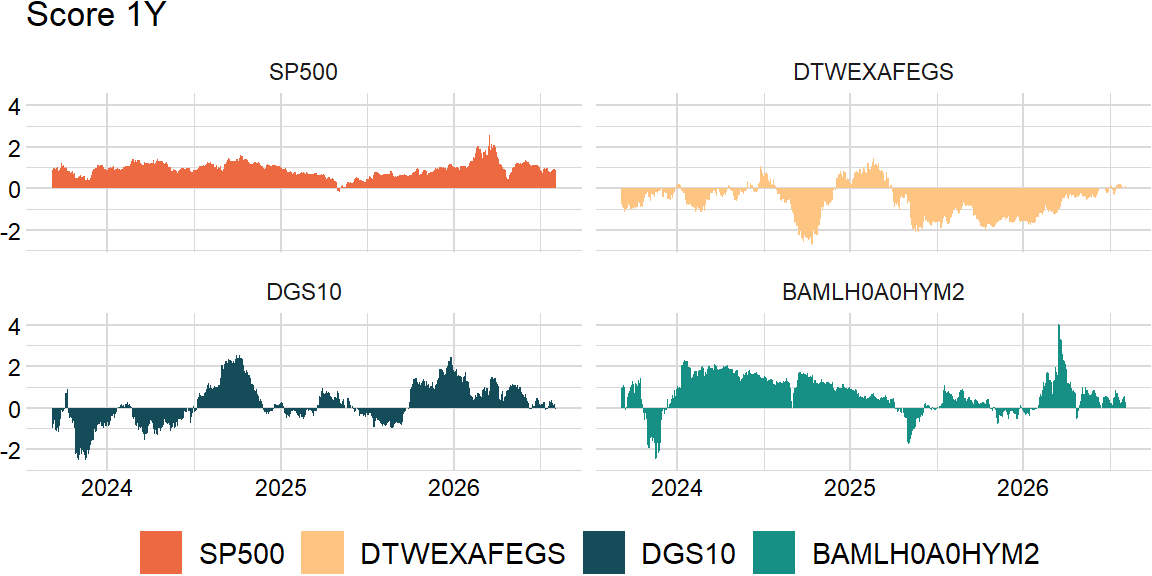
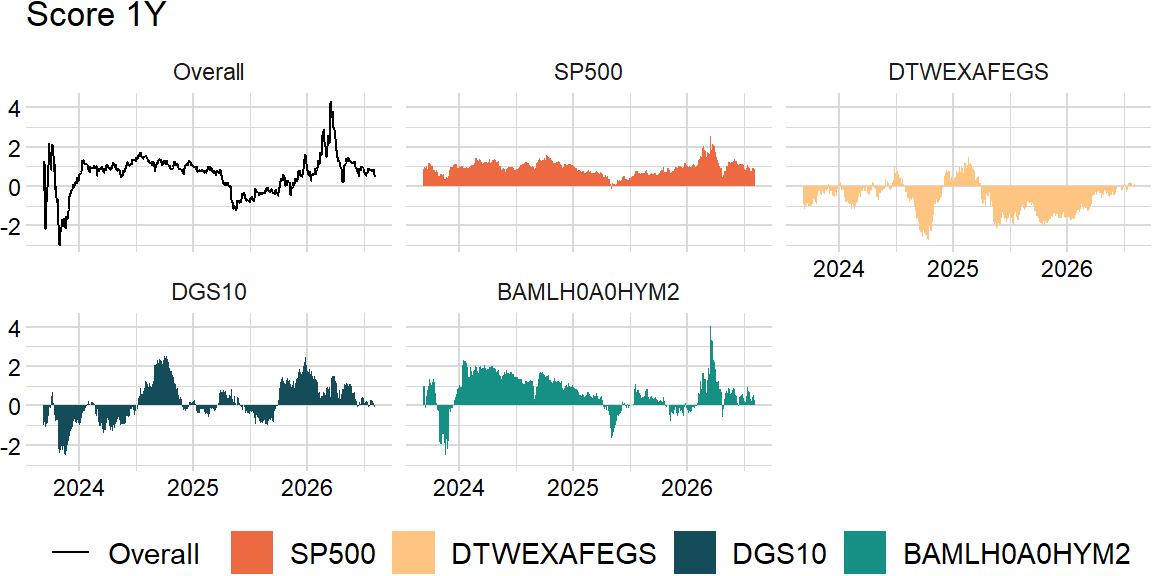
Version: 1.0.0

diff --git a/docs/posts/markets-r/index.html b/docs/posts/markets-r/index.html
@@ -7,7 +7,7 @@
 <meta name="viewport" content="width=device-width, initial-scale=1.0, user-scalable=yes">
 
 <meta name="author" content="Jason Foster">
-<meta name="dcterms.date" content="2026-08-07">
+<meta name="dcterms.date" content="2026-08-09">
 
 <title>Markets – jasonjfoster.github.io</title>
 <style>
@@ -193,7 +193,7 @@ window.Quarto = {
       <div>
       <div class="quarto-title-meta-heading">Published</div>
       <div class="quarto-title-meta-contents">
-        <p class="date">August 7, 2026</p>
+        <p class="date">August 9, 2026</p>
       </div>
     </div>
     
@@ -300,12 +300,12 @@ window.Quarto = {
 <span id="cb4-2"><a href="#cb4-2" aria-hidden="true" tabindex="-1"></a>score_xts <span class="ot">&lt;-</span> <span class="fu">na.omit</span>(momentum_xts <span class="sc">/</span> roll<span class="sc">::</span><span class="fu">roll_sd</span>(momentum_xts, width, <span class="at">center =</span> <span class="cn">FALSE</span>, <span class="at">min_obs =</span> <span class="dv">1</span>))</span></code><button title="Copy to Clipboard" class="code-copy-button"><i class="bi"></i></button></pre></div>
 </div>
 <div class="cell">
-<div class="sourceCode cell-code" id="cb5"><pre class="sourceCode r code-with-copy"><code class="sourceCode r"><span id="cb5-1"><a href="#cb5-1" aria-hidden="true" tabindex="-1"></a><span class="co"># overall_xts &lt;- xts::xts(rowMeans(score_xts), zoo::index(score_xts))</span></span>
-<span id="cb5-2"><a href="#cb5-2" aria-hidden="true" tabindex="-1"></a><span class="co"># overall_xts &lt;- overall_xts / roll::roll_sd(overall_xts, width, center = FALSE, min_obs = 1)</span></span>
-<span id="cb5-3"><a href="#cb5-3" aria-hidden="true" tabindex="-1"></a><span class="co"># colnames(overall_xts) &lt;- "Overall"</span></span></code><button title="Copy to Clipboard" class="code-copy-button"><i class="bi"></i></button></pre></div>
+<div class="sourceCode cell-code" id="cb5"><pre class="sourceCode r code-with-copy"><code class="sourceCode r"><span id="cb5-1"><a href="#cb5-1" aria-hidden="true" tabindex="-1"></a>overall_xts <span class="ot">&lt;-</span> xts<span class="sc">::</span><span class="fu">xts</span>(<span class="fu">rowMeans</span>(score_xts), zoo<span class="sc">::</span><span class="fu">index</span>(score_xts))</span>
+<span id="cb5-2"><a href="#cb5-2" aria-hidden="true" tabindex="-1"></a>overall_xts <span class="ot">&lt;-</span> overall_xts <span class="sc">/</span> roll<span class="sc">::</span><span class="fu">roll_sd</span>(overall_xts, width, <span class="at">center =</span> <span class="cn">FALSE</span>, <span class="at">min_obs =</span> <span class="dv">1</span>)</span>
+<span id="cb5-3"><a href="#cb5-3" aria-hidden="true" tabindex="-1"></a><span class="fu">colnames</span>(overall_xts) <span class="ot">&lt;-</span> <span class="st">"Overall"</span></span></code><button title="Copy to Clipboard" class="code-copy-button"><i class="bi"></i></button></pre></div>
 </div>
 <div class="cell">
-<div class="sourceCode cell-code" id="cb6"><pre class="sourceCode r code-with-copy"><code class="sourceCode r"><span id="cb6-1"><a href="#cb6-1" aria-hidden="true" tabindex="-1"></a><span class="co"># score_xts &lt;- na.omit(merge(overall_xts, score_xts))</span></span></code><button title="Copy to Clipboard" class="code-copy-button"><i class="bi"></i></button></pre></div>
+<div class="sourceCode cell-code" id="cb6"><pre class="sourceCode r code-with-copy"><code class="sourceCode r"><span id="cb6-1"><a href="#cb6-1" aria-hidden="true" tabindex="-1"></a>score_xts <span class="ot">&lt;-</span> <span class="fu">na.omit</span>(<span class="fu">merge</span>(overall_xts, score_xts))</span></code><button title="Copy to Clipboard" class="code-copy-button"><i class="bi"></i></button></pre></div>
 </div>
 <div class="cell">
 <div class="cell-output-display">
@@ -365,7 +365,7 @@ window.Quarto = {
 <span id="cb7-34"><a href="#cb7-34" aria-hidden="true" tabindex="-1"></a>}</span></code><button title="Copy to Clipboard" class="code-copy-button"><i class="bi"></i></button></pre></div>
 </div>
 <div class="cell">
-<div class="sourceCode cell-code" id="cb8"><pre class="sourceCode r code-with-copy"><code class="sourceCode r"><span id="cb8-1"><a href="#cb8-1" aria-hidden="true" tabindex="-1"></a>outliers_xts <span class="ot">&lt;-</span> <span class="fu">outliers</span>(score_xts)</span></code><button title="Copy to Clipboard" class="code-copy-button"><i class="bi"></i></button></pre></div>
+<div class="sourceCode cell-code" id="cb8"><pre class="sourceCode r code-with-copy"><code class="sourceCode r"><span id="cb8-1"><a href="#cb8-1" aria-hidden="true" tabindex="-1"></a>outliers_xts <span class="ot">&lt;-</span> <span class="fu">outliers</span>(score_xts[ , factors])</span></code><button title="Copy to Clipboard" class="code-copy-button"><i class="bi"></i></button></pre></div>
 </div>
 <div class="cell">
 <div class="cell-output-display">

diff --git a/docs/posts/markets-py/index.html b/docs/posts/markets-py/index.html
@@ -7,7 +7,7 @@
 <meta name="viewport" content="width=device-width, initial-scale=1.0, user-scalable=yes">
 
 <meta name="author" content="Jason Foster">
-<meta name="dcterms.date" content="2026-08-07">
+<meta name="dcterms.date" content="2026-08-09">
 
 <title>Markets – jasonjfoster.github.io</title>
 <style>
@@ -193,7 +193,7 @@ window.Quarto = {
       <div>
       <div class="quarto-title-meta-heading">Published</div>
       <div class="quarto-title-meta-contents">
-        <p class="date">August 7, 2026</p>
+        <p class="date">August 9, 2026</p>
       </div>
     </div>
     
@@ -312,12 +312,12 @@ window.Quarto = {
 <span id="cb5-2"><a href="#cb5-2" aria-hidden="true" tabindex="-1"></a>score_df <span class="op">=</span> (momentum_df <span class="op">/</span> momentum_df.rolling(width, min_periods <span class="op">=</span> <span class="dv">1</span>).<span class="bu">apply</span>(sd, raw <span class="op">=</span> <span class="va">False</span>)).dropna()</span></code><button title="Copy to Clipboard" class="code-copy-button"><i class="bi"></i></button></pre></div>
 </div>
 <div class="cell">
-<div class="sourceCode cell-code" id="cb6"><pre class="sourceCode python code-with-copy"><code class="sourceCode python"><span id="cb6-1"><a href="#cb6-1" aria-hidden="true" tabindex="-1"></a><span class="co"># overall_df = score_df.mean(axis = 1)</span></span>
-<span id="cb6-2"><a href="#cb6-2" aria-hidden="true" tabindex="-1"></a><span class="co"># overall_df = overall_df / overall_df.rolling(width, min_periods = 1).apply(sd, raw = False)</span></span></code><button title="Copy to Clipboard" class="code-copy-button"><i class="bi"></i></button></pre></div>
+<div class="sourceCode cell-code" id="cb6"><pre class="sourceCode python code-with-copy"><code class="sourceCode python"><span id="cb6-1"><a href="#cb6-1" aria-hidden="true" tabindex="-1"></a>overall_df <span class="op">=</span> score_df.mean(axis <span class="op">=</span> <span class="dv">1</span>)</span>
+<span id="cb6-2"><a href="#cb6-2" aria-hidden="true" tabindex="-1"></a>overall_df <span class="op">=</span> overall_df <span class="op">/</span> overall_df.rolling(width, min_periods <span class="op">=</span> <span class="dv">1</span>).<span class="bu">apply</span>(sd, raw <span class="op">=</span> <span class="va">False</span>)</span></code><button title="Copy to Clipboard" class="code-copy-button"><i class="bi"></i></button></pre></div>
 </div>
 <div class="cell">
-<div class="sourceCode cell-code" id="cb7"><pre class="sourceCode python code-with-copy"><code class="sourceCode python"><span id="cb7-1"><a href="#cb7-1" aria-hidden="true" tabindex="-1"></a><span class="co"># score_df.insert(loc = 0, column = "Overall", value = overall_df)</span></span>
-<span id="cb7-2"><a href="#cb7-2" aria-hidden="true" tabindex="-1"></a><span class="co"># score_df = score_df.dropna()</span></span></code><button title="Copy to Clipboard" class="code-copy-button"><i class="bi"></i></button></pre></div>
+<div class="sourceCode cell-code" id="cb7"><pre class="sourceCode python code-with-copy"><code class="sourceCode python"><span id="cb7-1"><a href="#cb7-1" aria-hidden="true" tabindex="-1"></a>score_df.insert(loc <span class="op">=</span> <span class="dv">0</span>, column <span class="op">=</span> <span class="st">"Overall"</span>, value <span class="op">=</span> overall_df)</span>
+<span id="cb7-2"><a href="#cb7-2" aria-hidden="true" tabindex="-1"></a>score_df <span class="op">=</span> score_df.dropna()</span></code><button title="Copy to Clipboard" class="code-copy-button"><i class="bi"></i></button></pre></div>
 </div>
 <div class="cell">
 <div class="cell-output-display">
@@ -379,7 +379,7 @@ window.Quarto = {
 <span id="cb9-33"><a href="#cb9-33" aria-hidden="true" tabindex="-1"></a>  <span class="cf">return</span> result</span></code><button title="Copy to Clipboard" class="code-copy-button"><i class="bi"></i></button></pre></div>
 </div>
 <div class="cell">
-<div class="sourceCode cell-code" id="cb10"><pre class="sourceCode python code-with-copy"><code class="sourceCode python"><span id="cb10-1"><a href="#cb10-1" aria-hidden="true" tabindex="-1"></a>outliers_df <span class="op">=</span> outliers(score_df)</span></code><button title="Copy to Clipboard" class="code-copy-button"><i class="bi"></i></button></pre></div>
+<div class="sourceCode cell-code" id="cb10"><pre class="sourceCode python code-with-copy"><code class="sourceCode python"><span id="cb10-1"><a href="#cb10-1" aria-hidden="true" tabindex="-1"></a>outliers_df <span class="op">=</span> outliers(score_df[factors])</span></code><button title="Copy to Clipboard" class="code-copy-button"><i class="bi"></i></button></pre></div>
 </div>
 <div class="cell">
 <div class="cell-output-display">

diff --git a/docs/index.html b/docs/index.html
@@ -197,7 +197,7 @@ window.Quarto = {
 
 <div class="quarto-listing quarto-listing-container-grid" id="listing-listing">
 <div class="list grid quarto-listing-cols-3">
-<div class="g-col-1" data-index="0" data-categories="YW5hbHlzaXMlMkNmaW5hbmNlJTJDcHl0aG9u" data-listing-date-sort="1786130658000" data-listing-file-modified-sort="1786130658000" data-listing-date-modified-sort="NaN" data-listing-reading-time-sort="7" data-listing-word-count-sort="1302">
+<div class="g-col-1" data-index="0" data-categories="YW5hbHlzaXMlMkNmaW5hbmNlJTJDcHl0aG9u" data-listing-date-sort="1786275303000" data-listing-file-modified-sort="1786275303838" data-listing-date-modified-sort="NaN" data-listing-reading-time-sort="7" data-listing-word-count-sort="1314">
 <a href="./posts/markets-py/index.html" class="quarto-grid-link">
 </a><div class="quarto-grid-item card h-100 card-left"><a href="./posts/markets-py/index.html" class="quarto-grid-link">
 <p class="card-img-top"><img src="posts\markets-py\index_files\figure-html\unnamed-chunk-7-1.png" style="height: 0px;"  class="thumbnail-image card-img"/></p>
@@ -222,13 +222,13 @@ One month reversal and 2-12 month momentum are two ends of the spectrum. The gen
 </a><a href="mailto:jason.j.foster@gmail.com">Jason Foster</a>
 </div>
 <div class="listing-date">
-Aug 7, 2026
+Aug 9, 2026
 </div>
 </div>
 </div>
 </div>
 </div>
-<div class="g-col-1" data-index="1" data-categories="YW5hbHlzaXMlMkNmaW5hbmNlJTJDcg==" data-listing-date-sort="1786130644000" data-listing-file-modified-sort="1786130644000" data-listing-date-modified-sort="NaN" data-listing-reading-time-sort="7" data-listing-word-count-sort="1241">
+<div class="g-col-1" data-index="1" data-categories="YW5hbHlzaXMlMkNmaW5hbmNlJTJDcg==" data-listing-date-sort="1786275269000" data-listing-file-modified-sort="1786275269921" data-listing-date-modified-sort="NaN" data-listing-reading-time-sort="7" data-listing-word-count-sort="1255">
 <a href="./posts/markets-r/index.html" class="quarto-grid-link">
 </a><div class="quarto-grid-item card h-100 card-left"><a href="./posts/markets-r/index.html" class="quarto-grid-link">
 <p class="card-img-top"><img src="posts\markets-r\index_files\figure-html\unnamed-chunk-6-1.png" style="height: 0px;"  class="thumbnail-image card-img"/></p>
@@ -253,7 +253,7 @@ One month reversal and 2-12 month momentum are two ends of the spectrum. The gen
 </a><a href="mailto:jason.j.foster@gmail.com">Jason Foster</a>
 </div>
 <div class="listing-date">
-Aug 7, 2026
+Aug 9, 2026
 </div>
 </div>
 </div>
